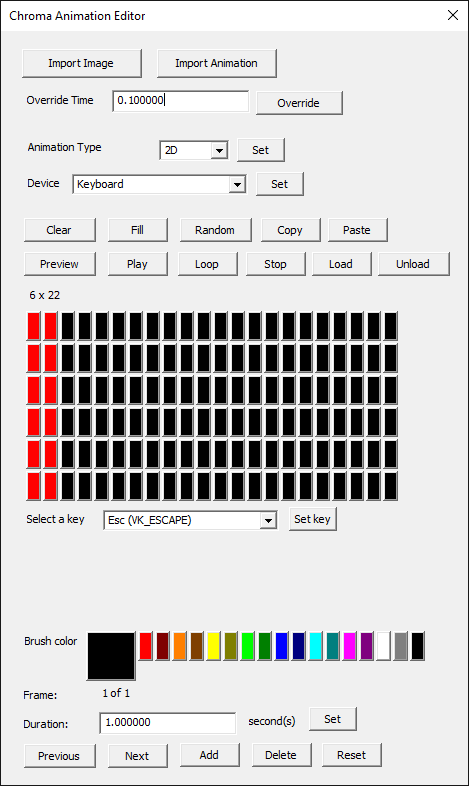
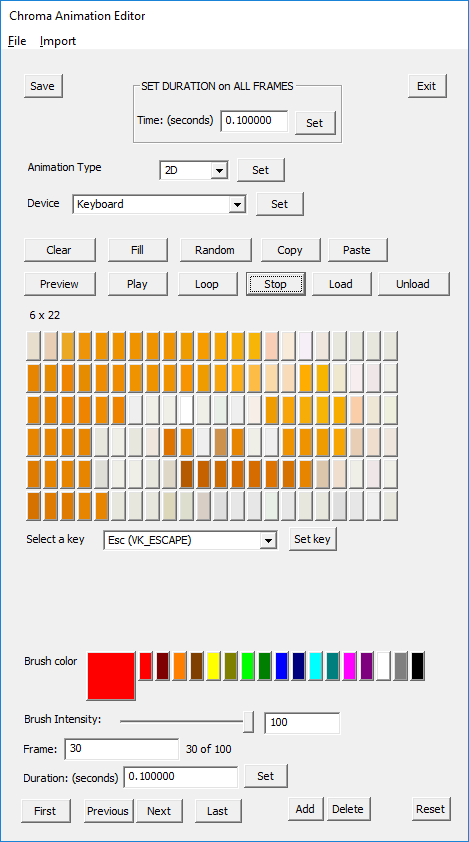
Document menu

diff --git a/CChromaEditorLibrary/CChromaEditorLibrary.h b/CChromaEditorLibrary/CChromaEditorLibrary.h
@@ -107,7 +107,7 @@ public:
 	virtual void OnCancel();
 
 	// Update preview when animation is playing
-	void OnTimer(UINT TimerVal);
+	virtual void OnTimer(UINT_PTR TimerVal);
 
 	void OnHScroll(UINT nSBCode, UINT nPos, CScrollBar* pScrollBar);
 

diff --git a/CChromaEditorLibrary/CChromaEditorLibrary.cpp b/CChromaEditorLibrary/CChromaEditorLibrary.cpp
@@ -1147,7 +1147,7 @@ void CMainViewDlg::OnCancel()
 	// stop escape from closing the dialog
 }
 
-void CMainViewDlg::OnTimer(UINT TimerVal)
+void CMainViewDlg::OnTimer(UINT_PTR TimerVal)
 {
 	if (GetAnimation() == nullptr)
 	{

diff --git a/README.md b/README.md
@@ -6,6 +6,7 @@
 * [Frameworks supported](#frameworks-supported)
 * [Prerequisites](#prerequisites)
 * [Assets](#assets)
+* [Dialog](dialog)
 * [API](#api)
 * [Edit API](#edit-api)
 * [File Format](#file-format)
@@ -72,8 +73,43 @@
 
 This library supports the `Chroma` animation exports from [UE4](https://github.com/razerofficial/UE4ChromaSDK), [Unity](https://github.com/razerofficial/UnityNativeChromaSDK/), and [GameMaker](https://github.com/razerofficial/GameMakerChromaExtension).
 
+<a name="dialog"></a>
+## Dialog
+
 ![image_1](images/image_1.png)
 
+**File Menu**
+
+![image_3](images/image_3.png)
+
+**New**
+
+Start with a new animationName
+
+**Open**
+
+Open a file dialog and open a `Chroma` animation
+
+**Save**
+
+Save the open animation
+
+**Save As**
+
+Open a file dialog and save the open animation
+
+**Import Menu**
+
+![image_4](images/image_4.png)
+
+**Import Image**
+
+Import a BMP, JPG, or PNG texture into the grid layout. The images will be stretched to fit the grid.
+
+**Import Animation**
+
+Import a GIF animation into the grid layout. Multiple frames will be added if they exist in the GIF. The image will be stretched to fit the grid.
+<br/>
 
 <a name="api"></a>
 ## API
